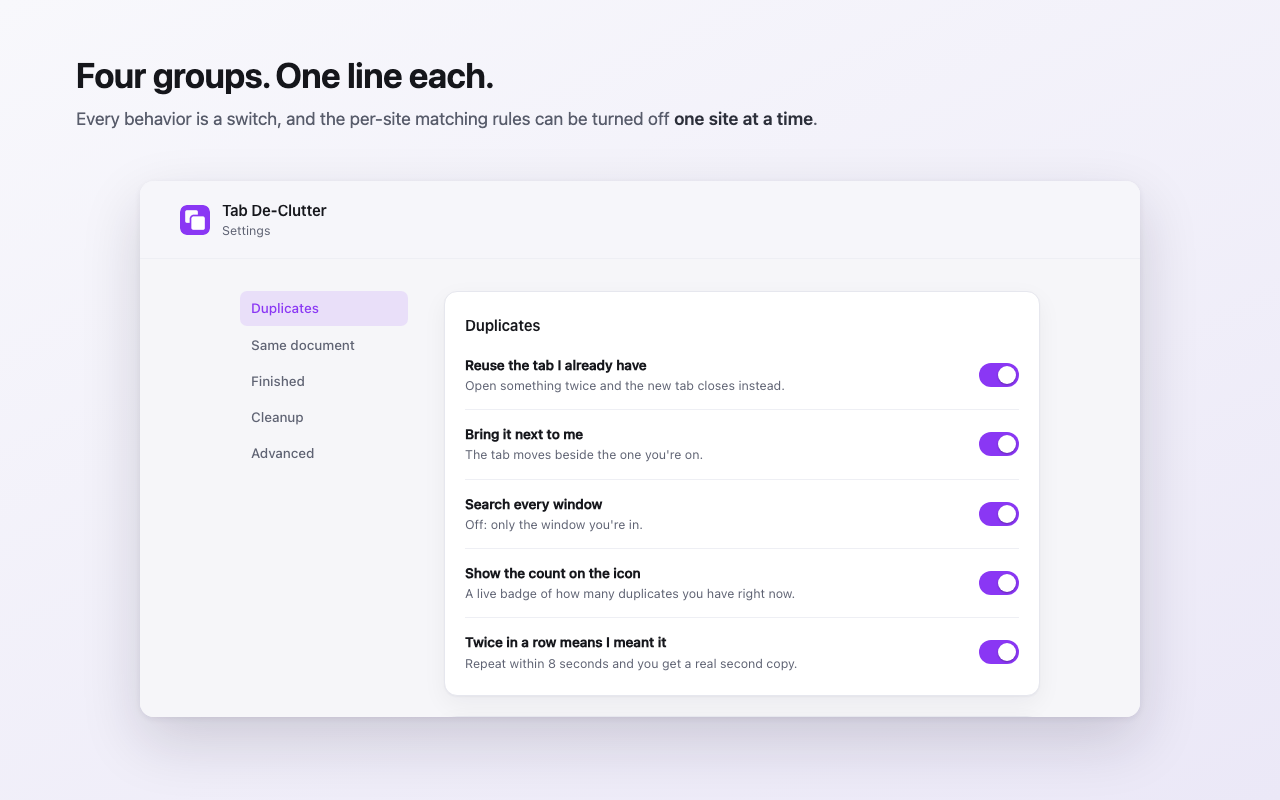
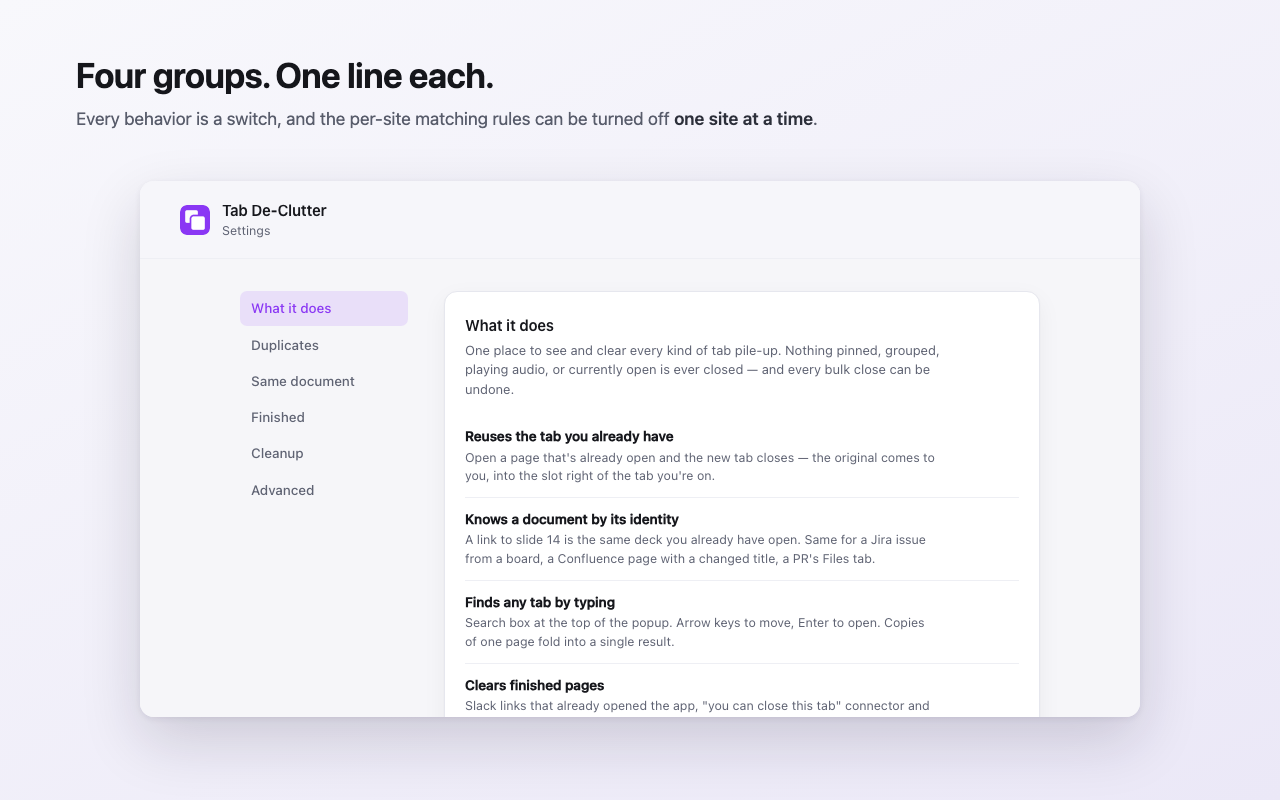
feat: the extension explains itself — a What it does panel in Settings
Settings now opens on a feature list rather than on a switch. Eight things the
extension does, one line each; both right-click menus with what every item
removes; the two keyboard shortcuts; and the standing promise that pinned,
grouped, audible and active tabs are never touched and every bulk close is
undoable.

The point is that none of this was discoverable. Half the features live behind a
right-click on a tab strip or an icon — places nobody thinks to right-click — so
they may as well not exist unless something says they're there.

Store screenshot 4 now captures this panel, which is a better first impression of
the extension than a column of toggles.

diff --git a/options.html b/options.html
@@ -19,7 +19,8 @@
 
     <div class="shell">
       <nav class="nav" id="nav">
-        <a href="#duplicates" class="current">Duplicates</a>
+        <a href="#about" class="current">What it does</a>
+        <a href="#duplicates">Duplicates</a>
         <a href="#matching">Same document</a>
         <a href="#finished">Finished</a>
         <a href="#cleanup">Cleanup</a>
@@ -27,6 +28,82 @@
       </nav>
 
       <main>
+        <section class="panel" id="about">
+          <h2>What it does</h2>
+          <p class="intro">
+            One place to see and clear every kind of tab pile-up. Nothing pinned, grouped, playing
+            audio, or currently open is ever closed — and every bulk close can be undone.
+          </p>
+
+          <ul class="features">
+            <li>
+              <span class="fname">Reuses the tab you already have</span>
+              <span class="fdesc">Open a page that's already open and the new tab closes — the original
+                comes to you, into the slot right of the tab you're on.</span>
+            </li>
+            <li>
+              <span class="fname">Knows a document by its identity</span>
+              <span class="fdesc">A link to slide 14 is the same deck you already have open. Same for a
+                Jira issue from a board, a Confluence page with a changed title, a PR's Files tab.</span>
+            </li>
+            <li>
+              <span class="fname">Finds any tab by typing</span>
+              <span class="fdesc">Search box at the top of the popup. Arrow keys to move, Enter to open.
+                Copies of one page fold into a single result.</span>
+            </li>
+            <li>
+              <span class="fname">Clears finished pages</span>
+              <span class="fdesc">Slack links that already opened the app, "you can close this tab"
+                connector and sign-in pages, Meet calls that ended. Listed together, gone in one click.</span>
+            </li>
+            <li>
+              <span class="fname">Proposes what you're done with</span>
+              <span class="fdesc">The Clutter tab ranks tabs and says why for each one. Nothing closes
+                until you tick it.</span>
+            </li>
+            <li>
+              <span class="fname">Closes a whole research trail</span>
+              <span class="fdesc">Right-click a tab → Review related tabs. It follows which tab opened
+                which, so a search and everything it led to closes as one thing.</span>
+            </li>
+            <li>
+              <span class="fname">Counts what's worth clearing</span>
+              <span class="fdesc">A live badge on the icon, with a tooltip that splits the number.</span>
+            </li>
+            <li>
+              <span class="fname">Merges every window into one</span>
+              <span class="fdesc">From the popup footer or the icon's right-click menu.</span>
+            </li>
+          </ul>
+
+          <h3>Right-click any tab</h3>
+          <ul class="features compact">
+            <li><span class="fname">Review related tabs…</span><span class="fdesc">See every category before anything closes</span></li>
+            <li><span class="fname">Close related tabs</span><span class="fdesc">The whole trail it belongs to</span></li>
+            <li><span class="fname">Close other tabs from this site</span><span class="fdesc">This tab stays</span></li>
+            <li><span class="fname">Close duplicate tabs</span><span class="fdesc">This window</span></li>
+          </ul>
+
+          <h3>Right-click the toolbar icon</h3>
+          <ul class="features compact">
+            <li><span class="fname">Close duplicates</span><span class="fdesc">This window, or all windows</span></li>
+            <li><span class="fname">Close finished pages</span><span class="fdesc">Every hand-off leftover at once</span></li>
+            <li><span class="fname">Merge all windows into this one</span><span class="fdesc">Grouped tabs stay put</span></li>
+            <li><span class="fname">Undo close</span><span class="fdesc">Reopens the last batch</span></li>
+          </ul>
+
+          <h3>Shortcuts</h3>
+          <ul class="features compact">
+            <li><span class="fname"><kbd>Alt</kbd>+<kbd>Shift</kbd>+<kbd>D</kbd></span><span class="fdesc">Close duplicate tabs now</span></li>
+            <li><span class="fname"><kbd>Alt</kbd>+<kbd>Shift</kbd>+<kbd>N</kbd></span><span class="fdesc">Let the next tab through, even if it's a duplicate</span></li>
+          </ul>
+
+          <p class="note">
+            No host permissions and no content scripts: none of this extension's code ever runs on a web
+            page, and nothing leaves your browser.
+          </p>
+        </section>
+
         <section class="panel" id="duplicates">
           <h2>Duplicates</h2>
 

diff --git a/store-assets/demo-options.html b/store-assets/demo-options.html
@@ -20,7 +20,8 @@
 
     <div class="shell">
       <nav class="nav" id="nav">
-        <a href="#duplicates" class="current">Duplicates</a>
+        <a href="#about" class="current">What it does</a>
+        <a href="#duplicates">Duplicates</a>
         <a href="#matching">Same document</a>
         <a href="#finished">Finished</a>
         <a href="#cleanup">Cleanup</a>
@@ -28,6 +29,82 @@
       </nav>
 
       <main>
+        <section class="panel" id="about">
+          <h2>What it does</h2>
+          <p class="intro">
+            One place to see and clear every kind of tab pile-up. Nothing pinned, grouped, playing
+            audio, or currently open is ever closed — and every bulk close can be undone.
+          </p>
+
+          <ul class="features">
+            <li>
+              <span class="fname">Reuses the tab you already have</span>
+              <span class="fdesc">Open a page that's already open and the new tab closes — the original
+                comes to you, into the slot right of the tab you're on.</span>
+            </li>
+            <li>
+              <span class="fname">Knows a document by its identity</span>
+              <span class="fdesc">A link to slide 14 is the same deck you already have open. Same for a
+                Jira issue from a board, a Confluence page with a changed title, a PR's Files tab.</span>
+            </li>
+            <li>
+              <span class="fname">Finds any tab by typing</span>
+              <span class="fdesc">Search box at the top of the popup. Arrow keys to move, Enter to open.
+                Copies of one page fold into a single result.</span>
+            </li>
+            <li>
+              <span class="fname">Clears finished pages</span>
+              <span class="fdesc">Slack links that already opened the app, "you can close this tab"
+                connector and sign-in pages, Meet calls that ended. Listed together, gone in one click.</span>
+            </li>
+            <li>
+              <span class="fname">Proposes what you're done with</span>
+              <span class="fdesc">The Clutter tab ranks tabs and says why for each one. Nothing closes
+                until you tick it.</span>
+            </li>
+            <li>
+              <span class="fname">Closes a whole research trail</span>
+              <span class="fdesc">Right-click a tab → Review related tabs. It follows which tab opened
+                which, so a search and everything it led to closes as one thing.</span>
+            </li>
+            <li>
+              <span class="fname">Counts what's worth clearing</span>
+              <span class="fdesc">A live badge on the icon, with a tooltip that splits the number.</span>
+            </li>
+            <li>
+              <span class="fname">Merges every window into one</span>
+              <span class="fdesc">From the popup footer or the icon's right-click menu.</span>
+            </li>
+          </ul>
+
+          <h3>Right-click any tab</h3>
+          <ul class="features compact">
+            <li><span class="fname">Review related tabs…</span><span class="fdesc">See every category before anything closes</span></li>
+            <li><span class="fname">Close related tabs</span><span class="fdesc">The whole trail it belongs to</span></li>
+            <li><span class="fname">Close other tabs from this site</span><span class="fdesc">This tab stays</span></li>
+            <li><span class="fname">Close duplicate tabs</span><span class="fdesc">This window</span></li>
+          </ul>
+
+          <h3>Right-click the toolbar icon</h3>
+          <ul class="features compact">
+            <li><span class="fname">Close duplicates</span><span class="fdesc">This window, or all windows</span></li>
+            <li><span class="fname">Close finished pages</span><span class="fdesc">Every hand-off leftover at once</span></li>
+            <li><span class="fname">Merge all windows into this one</span><span class="fdesc">Grouped tabs stay put</span></li>
+            <li><span class="fname">Undo close</span><span class="fdesc">Reopens the last batch</span></li>
+          </ul>
+
+          <h3>Shortcuts</h3>
+          <ul class="features compact">
+            <li><span class="fname"><kbd>Alt</kbd>+<kbd>Shift</kbd>+<kbd>D</kbd></span><span class="fdesc">Close duplicate tabs now</span></li>
+            <li><span class="fname"><kbd>Alt</kbd>+<kbd>Shift</kbd>+<kbd>N</kbd></span><span class="fdesc">Let the next tab through, even if it's a duplicate</span></li>
+          </ul>
+
+          <p class="note">
+            No host permissions and no content scripts: none of this extension's code ever runs on a web
+            page, and nothing leaves your browser.
+          </p>
+        </section>
+
         <section class="panel" id="duplicates">
           <h2>Duplicates</h2>
 

diff --git a/options.css b/options.css
@@ -414,3 +414,67 @@ summary:hover {
   opacity: 0.4;
   pointer-events: none;
 }
+
+/* --- feature list ---------------------------------------------------------- */
+
+.features {
+  margin: 0;
+  padding: 0;
+  list-style: none;
+}
+
+.features li {
+  display: flex;
+  flex-direction: column;
+  gap: 2px;
+  padding: 11px 0;
+  border-top: 1px solid var(--line-soft);
+}
+
+.features li:first-child {
+  border-top: 0;
+}
+
+.fname {
+  font-size: 13.5px;
+  font-weight: 550;
+}
+
+.fdesc {
+  font-size: 12.5px;
+  line-height: 1.5;
+  color: var(--fg-soft);
+  max-width: 60ch;
+}
+
+/* The menu and shortcut references: one line each, label and meaning side by side. */
+.features.compact li {
+  flex-direction: row;
+  align-items: baseline;
+  gap: 14px;
+  padding: 7px 0;
+}
+
+.features.compact .fname {
+  flex: none;
+  min-width: 210px;
+}
+
+.features.compact .fdesc {
+  flex: 1;
+}
+
+@media (max-width: 720px) {
+  .features.compact li {
+    flex-direction: column;
+    gap: 2px;
+  }
+}
+
+kbd {
+  padding: 1px 5px;
+  border: 1px solid var(--line);
+  border-radius: 4px;
+  background: var(--bg);
+  font: 12px ui-monospace, Menlo, monospace;
+}

diff --git a/README.md b/README.md
@@ -227,7 +227,9 @@ else: never yank a tab out of its group.
 
 ## Settings
 
-Five groups, one line of plain English each. Open with right-click the icon → **Options**.
+Opens on **What it does** — the full feature list, both right-click menus, and the two shortcuts, so the
+extension explains itself without this README. Then five groups of settings, one line of plain English
+each. Open with right-click the icon → **Options**.
 
 | Group | Settings |
 |---|---|
